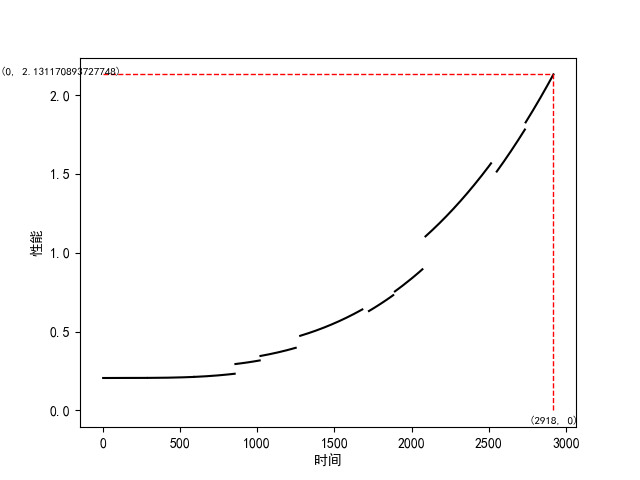
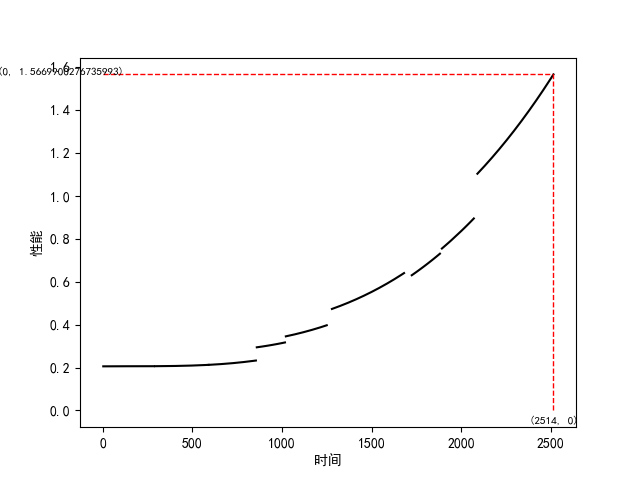
无异常

diff --git a/main.py b/main.py
@@ -10,24 +10,183 @@ from pylab import mpl
 mpl.rcParams['font.sans-serif'] = ['SimHei']
 mpl.rcParams['axes.unicode_minus'] = False
 
+# ======================================================================================================================
 
 # 超参数设置
 parameters = Env_parameters()
 para = parameters.parse_args()
 # 初始化超参数
-path = para.path
+data_path = para.data_path
+figure_path = para.figure_path
+interval = para.interval
 interval_segment = para.interval_segment
 normal_segment = para.normal_segment
 abnormal_segment = para.abnormal_segment
-SLDsize = para.SLDsize
+SLD = para.SLD
 
+# ======================================================================================================================
+# ======================================================================================================================
 
 # 读取Excel文件
-data = pd.read_excel(path)
-
+data = pd.read_excel(data_path)
 # 对每段数据进行数据清洗, 删除离群点
 data_segments = []
 for segment in interval_segment:
     segment_data = data.iloc[segment[0]:segment[1]].dropna()
     segment_data = F.Remove_outliers(segment_data)
     data_segments.append(segment_data)
+
+
+# 首先拟合模型f(x), 利用三次函数
+age_x = np.concatenate([data_segments[i].iloc[:, 0] for i in [0, 1, 2, 4, 5, 7, 8]])
+age_y = np.concatenate([
+    data_segments[0].iloc[:, 1],
+    data_segments[1].iloc[:, 1] + (data_segments[0].iloc[-1, 1] - data_segments[1].iloc[0, 1]),
+    data_segments[2].iloc[:, 1] + (data_segments[0].iloc[-1, 1] - data_segments[1].iloc[0, 1] + data_segments[1].iloc[-1, 1] - data_segments[2].iloc[0, 1]),
+    data_segments[4].iloc[:, 1] + (data_segments[0].iloc[-1, 1] - data_segments[1].iloc[0, 1] + data_segments[1].iloc[-1, 1] - data_segments[2].iloc[0, 1] + data_segments[2].iloc[-1, 1] - data_segments[4].iloc[0, 1]),
+    data_segments[5].iloc[:, 1] + (data_segments[0].iloc[-1, 1] - data_segments[1].iloc[0, 1] + data_segments[1].iloc[-1, 1] - data_segments[2].iloc[0, 1] + data_segments[2].iloc[-1, 1] - data_segments[4].iloc[0, 1] + data_segments[4].iloc[-1, 1] - data_segments[5].iloc[0, 1]),
+    data_segments[7].iloc[:, 1] + (data_segments[0].iloc[-1, 1] - data_segments[1].iloc[0, 1] + data_segments[1].iloc[-1, 1] - data_segments[2].iloc[0, 1] + data_segments[2].iloc[-1, 1] - data_segments[4].iloc[0, 1] + data_segments[4].iloc[-1, 1] - data_segments[5].iloc[0, 1] + data_segments[5].iloc[-1, 1] - data_segments[7].iloc[0, 1]),
+    data_segments[8].iloc[:, 1] + (data_segments[0].iloc[-1, 1] - data_segments[1].iloc[0, 1] + data_segments[1].iloc[-1, 1] - data_segments[2].iloc[0, 1] + data_segments[2].iloc[-1, 1] - data_segments[4].iloc[0, 1] + data_segments[4].iloc[-1, 1] - data_segments[5].iloc[0, 1] + data_segments[5].iloc[-1, 1] - data_segments[7].iloc[0, 1] + data_segments[7].iloc[-1, 1] - data_segments[8].iloc[0, 1])
+])
+age_x = np.array(age_x); age_y = np.array(age_y)
+age_params, age_params_covariance = curve_fit(F.f, age_x, age_y)
+age_x_fit = np.linspace(min(age_x), max(age_x), 100); age_y_fit = F.f(age_x_fit, *age_params)
+# 画出数据点和拟合曲线
+plt.scatter(age_x, age_y, label='老化数据(y轴为: 累计维护高度+每段数据y值)', color='lightblue')
+plt.plot(age_x_fit, age_y_fit, color='black', label='老化拟合曲线')
+# 添加标签和图例
+plt.xlabel('X'); plt.ylabel('Y'); plt.legend()
+#plt.savefig('figure/123569段数据清洗后拟合性能趋势图')
+plt.show()
+
+# ======================================================================================================================
+# ======================================================================================================================
+
+# 利用PSO算法求解回退时间
+# t的下界与上界（根据实际情况调整）
+lb = [0]; ub = [1000]
+delta_x = [data_segments[i].iloc[0, 0] for i in normal_segment[1:6]]
+delta_y = [data_segments[i].iloc[-1, 1] - data_segments[i + 1].iloc[0, 1] for i in normal_segment[0:5]]
+backoff_time, backoff_error = pso(lambda t: F.pso_goal(t, delta_x, delta_y, *age_params), lb, ub)
+
+
+# 拟合异常数据段的斜率(4, 7, 10, 11)
+local_segments = [data_segments[i].iloc[0:SLD] for i in abnormal_segment]
+coefficients = [np.polyfit(segment['时间'], segment['性能'], 1) for segment in local_segments]
+polys = [np.poly1d(coef) for coef in coefficients]
+print('===================================================')
+print('===================================================')
+for i, segment in enumerate(abnormal_segment):
+    plt.scatter(data_segments[segment]['时间'], data_segments[segment]['性能'], label=f'数据集{segment + 1}全部点', color='blue')
+    plt.scatter(local_segments[i]['时间'], local_segments[i]['性能'], label=f'数据集{segment + 1}局部点',
+                color='cyan')
+    plt.plot(local_segments[i]['时间'], polys[i](local_segments[i]['时间']), label=f'拟合曲线{segment+1}',
+             color='black')
+    print(f'清洗后数据集{abnormal_segment[i] + 1}的局部斜率: {coefficients[i][0]}')
+plt.xlabel('时间'); plt.ylabel('性能'); plt.legend()
+#plt.savefig('figure/在清洗数据后得到的第4_7_10_11段起始点的斜率')
+plt.show()
+
+# ======================================================================================================================
+# ======================================================================================================================
+
+# 下面计算拟合曲线在3, 6, 9, 10段的末尾点的斜率(直接代入末尾点的x坐标算就行), 前面拟合的是4, 7, 10, 11起始点的局部斜率(取了30个点)
+# 绘制这四点和它们的导数
+points_x = [data_segments[segment-1].iloc[-1,0] for i, segment in enumerate(abnormal_segment)]
+points_y = [F.f(x, *age_params) for x in points_x]
+points_slope = [F.derivative_f(data_segments[segment-1].iloc[-1,0], *age_params) for i, segment in enumerate(abnormal_segment)]
+
+plt.scatter(age_x, age_y, label='老化数据(y轴为: 累计维护高度+每段数据y值)', color='lightblue')
+plt.plot(age_x_fit, age_y_fit, color='black', label='老化拟合曲线')
+for (px, py, slope) in zip(points_x, points_y, points_slope):
+    plt.scatter(px, py, color='red')  # 点的位置
+    x_range = np.linspace(px - 10, px + 10, 100)
+    y_range = slope * (x_range - px) + py
+    plt.plot(x_range, y_range, color='red')  # 绘制导数直线
+# 添加标签和图例
+plt.xlabel('X'); plt.ylabel('Y'); plt.legend()
+#plt.savefig('figure/123569段数据清洗后拟合性能趋势图_带导数')
+plt.show()
+
+# 输出导数值
+print('===================================================')
+print('===================================================')
+print('拟合曲线在第3, 6, 9, 10段的末尾点的x坐标和斜率分别为:')
+for i, segment in enumerate(abnormal_segment):
+    print(f'第{segment}段末尾x坐标 = {points_x[i]}, 第{segment}段末尾斜率 = {points_slope[i]}')
+
+# ======================================================================================================================
+# ======================================================================================================================
+
+# 存储4, 7, 10, 11段上每个x的斜率
+slope_memory = [[] for i in range(len(abnormal_segment))]
+for i, segment in enumerate(abnormal_segment):
+    for num in range(SLD):
+        x = data_segments[segment].iloc[i, 0]
+        slope = F.derivative_f(x, *age_params)
+        slope_memory[i].append(slope)
+# 下面计算k_mean
+k_mean = [0 for i in range(len(interval_segment))]
+for i, segment in enumerate(abnormal_segment):
+    k_mean[segment] = 1 / (interval_segment[segment][1] - interval_segment[segment][0] + 1 - 30) * (coefficients[i][0] * SLD - sum(slope_memory[i]))
+print('===================================================')
+print('===================================================')
+print('k_mean: ', k_mean)
+
+# ======================================================================================================================
+# ======================================================================================================================
+
+# 下面计算g(x)
+g = []
+for i, segment in enumerate(interval):
+    gx = F.gx(data_segments[segment].iloc[:, 0], sum(k_mean[:segment + 1]), data_segments[segment].iloc[0, 0])
+    g.append(gx)
+# 下面计算h(x)
+h = []
+for i,  segment in enumerate(interval):
+    if segment == 0:
+        hx = 0
+    else:
+        x = data_segments[segment].iloc[0, 0]
+        hx = F.hx(segment, backoff_time[0], h, x, *age_params)
+    h.append(hx)
+# 下面计算e(x)
+e = []
+for num, segment in enumerate(interval):
+    x = data_segments[segment].iloc[:, 0]
+    ex = F.ex(data_segments, h, segment, x, k_mean, *age_params)
+    e.append(ex)
+# 画图
+for i, segment in enumerate(interval):
+    #plt.scatter(data_segments[segment]['时间'], data_segments[segment]['性能'], label=f'数据集{segment + 1}全部点', color='blue')
+    plt.plot(e[i].index[:], e[i].values, label=f'第{segment + 1}段的e曲线', color='black')
+plt.xlabel('时间'); plt.ylabel('性能'); plt.legend()
+#plt.savefig('figure/e(x).png')
+plt.show()
+
+# ======================================================================================================================
+# ======================================================================================================================
+
+# 下面计算无异常
+Wuyichang = []
+for i, segment in enumerate(interval):
+    x_total = data_segments[segment].iloc[:, 0]
+    # judge用来判断性能是否达到1
+    judge = 0
+    for num, x in enumerate(x_total):
+        Wuyichangx = F.Wuyichangx(h, segment, x, *age_params)
+        Wuyichang.append((x, Wuyichangx))
+        if Wuyichangx >= 1:
+            judge = 1
+            break
+    if judge == 1:
+        break
+    curve_x, curve_y = zip(*Wuyichang)
+    plt.plot(curve_x, curve_y, label=f'无异常曲线', color='black')
+    Wuyichang = []
+plt.show()
+
+
+
+
+

diff --git a/parameters.py b/parameters.py
@@ -6,13 +6,15 @@ class Env_parameters():
         parser = argparse.ArgumentParser('Env_parameters')
 
         # 定义模型参数
-        parser.add_argument('--path', default='data/C1.xlsx', help='Data file path')
+        parser.add_argument('--data_path', default='data/C1.xlsx', help='Data file path')
+        parser.add_argument('--figure_path', default='figure', help='Figure file path')
+        parser.add_argument('--interval', default=[0, 1, 2, 3, 4, 5, 6, 7, 8, 9, 10], help='interval')
         parser.add_argument('--interval_segment', type=list, default=[(0, 287), (293, 592), (592, 856), (860, 1018), (1022, 1251), (1279, 1685), (1724, 1882), (1892, 2071), (2078, 2515), (2539, 2734), (2738, 2919)], help='Interval of each segment')
         parser.add_argument('--normal_segment', default=[0, 1, 2, 4, 5, 7, 8],
                             help='Segments use for polynomial fitting')
         parser.add_argument('--abnormal_segment', default=[3, 6, 9, 10],
                             help='Segments use for computing k_mean')
-        parser.add_argument('--SLDsize', type=int, default=30,
+        parser.add_argument('--SLD', type=int, default=30,
                             help='Size of local data  for fitting k_mean model ')
 
 

diff --git a/function.py b/function.py
@@ -36,6 +36,11 @@ def pso_goal(t, x_value, delta_y, a, b, c, d):
 def gx(x, k, x0):
     return k * (x - x0)
 
+def hx(segment, backoff_time, h, x, a, b, c, d):
+    hx = F.f(x, a, b, c, d) - F.f(x - backoff_time, a, b, c, d) + h[segment - 1]
+    return hx
+
+
 def ex(data_segments, h, segment, x, k_mean, a, b, c, d):
     if segment == 3 or segment == 6 or segment == 9 or segment == 10:
         e = F.f(x, a, b, c, d) + F.gx(x, k_mean[segment], data_segments[segment].iloc[0, 0]) - h[segment]
@@ -44,16 +49,16 @@ def ex(data_segments, h, segment, x, k_mean, a, b, c, d):
 
     return e
 
-def Wuyichangzhi(h, num, x, a, b, c, d):
-    wuyichangzhi = F.f(x, a, b, c, d) - h[num]
+def Wuyichangx(h, segment, x, a, b, c, d):
+    wuyichang = F.f(x, a, b, c, d) - h[segment]
 
-    return wuyichangzhi
+    return wuyichang
 
-def Wuweihu(g, num, x, a, b, c, d):
+def Wuweihux(g, num, x, a, b, c, d):
     wuweihu = F.f(x, a, b, c, d) + g[num]
 
     return wuweihu
 
-def Douwu(x, a, b, c, d):
+def Douwux(x, a, b, c, d):
     douwu = F.f(x, a, b, c, d)
     return douwu

diff --git a/test.py b/test.py
@@ -229,9 +229,14 @@ print('===============================================')'''
 Wuyichang = []
 for num, segment in enumerate(interval):
     x = data_segments[segment].iloc[:,0]
-    Wuyichang.append(F.Wuyichangzhi(h, num, x, *age_params))
+    for i, item in enumerate(x):
+        Wuyichang.append(F.Wuyichangzhi(h, num, item, *age_params))
+        if Wuyichang[-1] >= 1:
+            judge = 1
+            break
     #plt.scatter(data_segments[segment]['时间'], data_segments[segment]['性能'], label=f'数据集{segment + 1}全部点', color='blue')
     plt.plot(Wuyichang[num].index[:], Wuyichang[num].values, label=f'第{segment + 1}段的无异常曲线', color='black')
+
 # 使用虚线画出对应的 x, y 坐标
 plt.plot([Wuyichang[-1].index[-1], Wuyichang[-1].index[-1]], [0, Wuyichang[-1].values[-1]], 'r--', linewidth=1)
 plt.plot([0, Wuyichang[-1].index[-1]], [Wuyichang[-1].values[-1], Wuyichang[-1].values[-1]], 'r--', linewidth=1)
